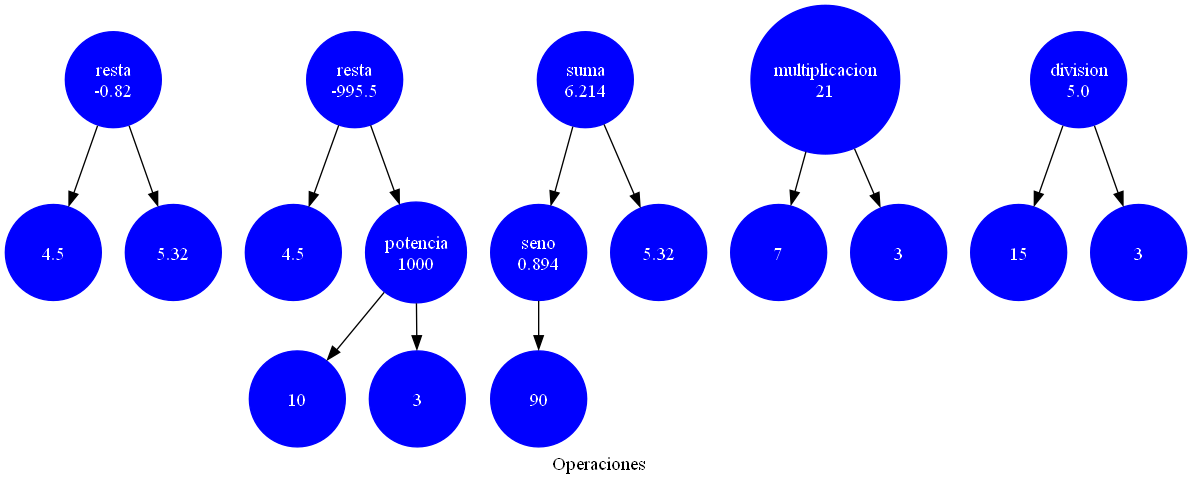
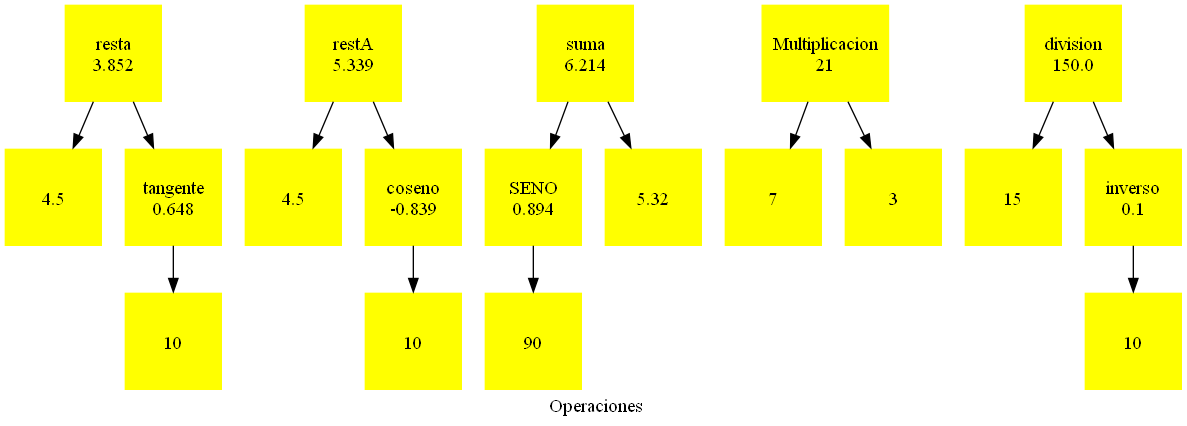
Agrego validaciones operaciones

diff --git a/CAritmetica.py b/CAritmetica.py
@@ -16,22 +16,21 @@ class CAritmetica(abstract):
         if self.right != None:
             rightValue = self.right.operar(arbol)
         
-        if self.tipo.operar(arbol) == 'suma':
+        if self.tipo.operar(arbol).lower() == 'suma':
             return round(leftValue + rightValue, 3)
-        elif self.tipo.operar(arbol) == 'resta':
+        elif self.tipo.operar(arbol).lower()  == 'resta':
             return round(leftValue - rightValue, 3)
-        elif self.tipo.operar(arbol) == 'multiplicacion':
+        elif self.tipo.operar(arbol).lower() == 'multiplicacion':
             return round(leftValue * rightValue, 3)
-        elif self.tipo.operar(arbol) == 'division':
+        elif self.tipo.operar(arbol).lower() == 'division':
             return round(leftValue / rightValue, 3)
-        elif self.tipo.operar(arbol) == 'modulo':
+        elif self.tipo.operar(arbol).lower() == 'modulo':
             return round(leftValue % rightValue, 3)
-        elif self.tipo.operar(arbol) == 'potencia':
+        elif self.tipo.operar(arbol).lower() == 'potencia':
             return round(leftValue ** rightValue, 3)
-        elif self.tipo.operar(arbol) == 'raiz':
+        elif self.tipo.operar(arbol).lower() == 'raiz':
             return round(leftValue ** (1/rightValue), 3)
-        elif self.tipo.operar(arbol) == 'inverso':
-            return  round(1/leftValue, 3)
+        
         else:
             return 0      
     

diff --git a/analizador_lexico.py b/analizador_lexico.py
@@ -168,7 +168,7 @@ def operar():
             if n2.operar(None) == '[':
                 n2=operar()
                 
-        if CLexema.operar(None) == 'textos':
+        if CLexema.operar(None) == 'texto':
             textos = lista_lexemas.pop(0)
             
         if CLexema.operar(None) == 'fondo':
@@ -184,7 +184,7 @@ def operar():
         if operacion and n1 and n2:
             return CAritmetica(n1, n2, operacion, f'Inicio:{operacion.getFila()}: {operacion.getColumna()}', f'Fin: {n2.getFila()}:{n2.getColumna()}')
             
-        elif operacion and n1 and operacion.operar(None) == ('seno' or 'coseno' or 'tangente'):
+        elif operacion and n1 and operacion.operar(None).lower() in ('seno', 'coseno', 'tangente','inverso'): #and operacion.operar(None) == ('seno' or 'coseno' or 'tangente'):
             return CTrigonometrica( n1,operacion, f'Inicio:{operacion.getFila()}: {operacion.getColumna()}', f'Fin: {n1.getFila()}:{n1.getColumna()}')
     return None
             

diff --git a/CTrigonometricas.py b/CTrigonometricas.py
@@ -11,12 +11,15 @@ class CTrigonometrica(abstract):
         leftValue = ''
         if self.left != None:
             leftValue = self.left.operar(arbol)
-        if self.tipo.operar(arbol) == 'seno':
+        if self.tipo.operar(arbol).lower() == 'seno':
             return round(sin(leftValue), 3)
-        elif self.tipo.operar(arbol) == 'coseno':
+        elif self.tipo.operar(arbol).lower() == 'coseno':
             return round(cos(leftValue), 3)
-        elif self.tipo.operar(arbol) == 'tangente':
+        elif self.tipo.operar(arbol).lower() == 'tangente':
             return round(tan(leftValue), 3)
+        
+        elif self.tipo.operar(arbol) == 'inverso':
+            return  round(1/leftValue, 3)
         else:
             return 0
     
